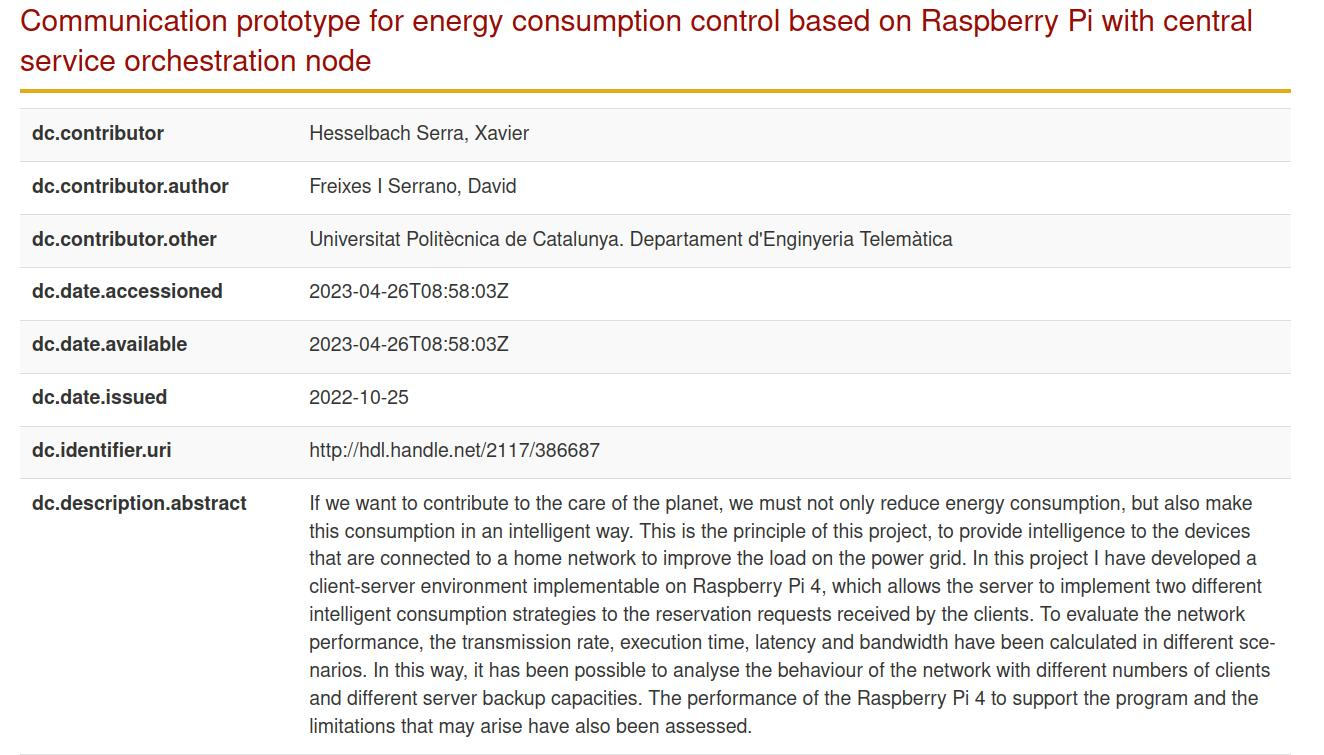
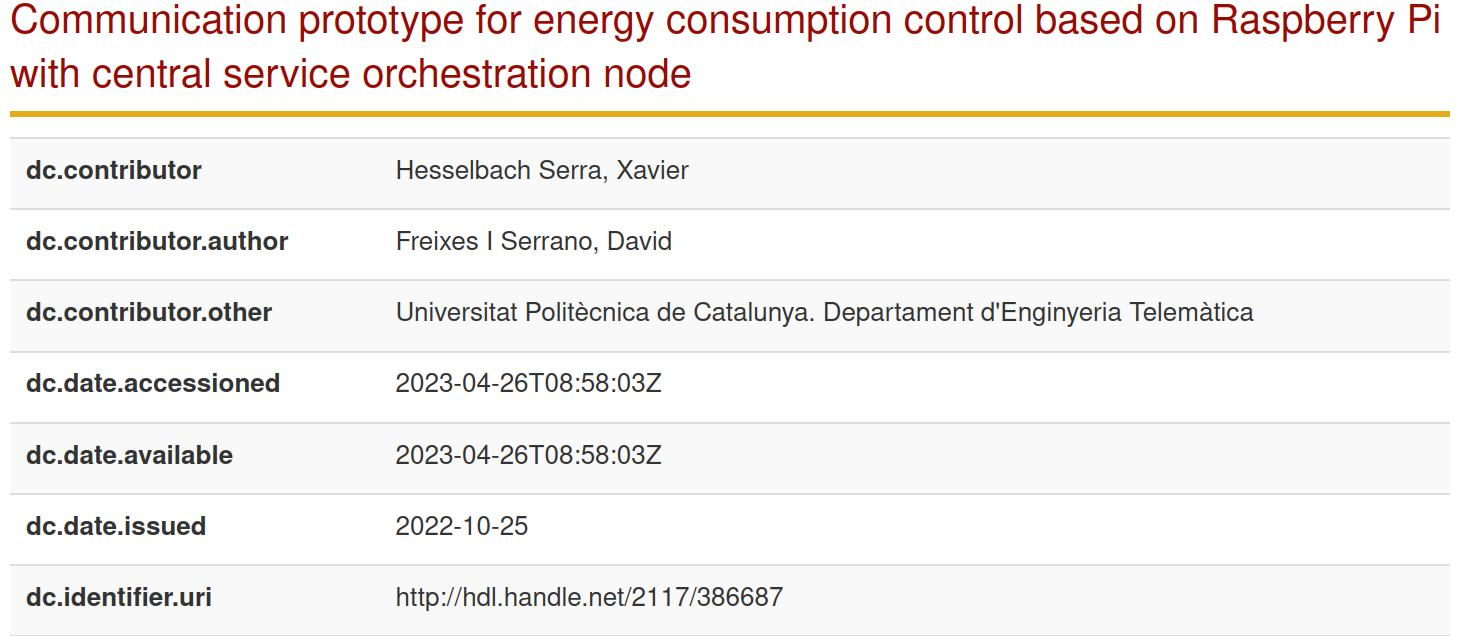
feat(metadata): add section introduction

diff --git a/sections/metadata.tex b/sections/metadata.tex
@@ -7,6 +7,36 @@ Els autors, la descripció del recurs, la data de pujada, el departament respons
 En el nostre cas, a \gls{UPCommons}, aquestes utilitzen el format \gls{DSpace} Intermediate Metadata, \gls{DIM}, que es basa en fer sservir el format Dublin Core incorporant un qualificador, amb la finalitat d'afinar la informació que inclous.
 L'estructura és la següent:
 
+\begin{center}
+    \textit{schema.element.qualifier} \\
+\end{center}
+
+\noindent
+Per exemple, l'autor principal d'un recurs s'identificaria com:
+
+\begin{center}
+    \text{dc.contributor.author} \\
+\end{center}
+
+\begin{figure}[htbp]
+    \centerline{\includegraphics[width=0.8\textwidth]{figures/metadata-example}}
+    \captionsetup{justification=centering}
+    \caption{Llista parcial de les metadades del recurs}\label{fig:metadata-example}
+    \source{\url{http://hdl.handle.net/2117/386687}}
+\end{figure}
+
+
+
+\noindent
+Per cada metadada, s'assignen els següent valors:
+
+\begin{itemize}
+    \item \textbf{value}: Valor de la metadada.
+    \item \textbf{language}: Idioma. És habitual trobar-lo a les descripcions / resums dels registres, encara que a vegades no està ben introduït.
+    \item \textbf{authority}: Codi que relaciona la metadada amb un sistema d'autoritats que permet obtenir més dades.
+    \item \textbf{qualifier}: Un nivell de confiança associat a l'autoritat.
+\end{itemize}
+
 \begin{figure}[htbp]
     \centerline{\includegraphics[width=1.2\textwidth]{figures/metadata-processing}}
     \captionsetup{justification=centering}

diff --git a/main.tex b/main.tex
@@ -12,6 +12,7 @@
 \usepackage{multicol}
 \usepackage{booktabs}
 \usepackage{glossaries}
+\usepackage{url}
 
 \makeglossaries
 \newcommand{\source}[1]{\caption*{\textbf{Font:} {#1}} }
